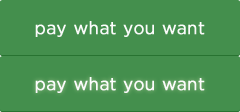
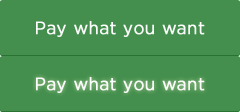
Custom buttons.

diff --git a/webkit/disconnect.safariextension/chrome/stylesheets/d2.css b/webkit/disconnect.safariextension/chrome/stylesheets/d2.css
@@ -161,17 +161,17 @@ h2 {
 
 #more-action:hover { color: #009548 }
 
-#try {
-  position: absolute;
-  top: 320px;
-  left: -200px
-}
-
 #embed {
   display: inline-block;
   width: 33%;
   -webkit-transform: scale(1.2);
   -moz-transform: scale(1.2)
+}
+
+#try {
+  position: relative;
+  margin-top: -120px;
+  margin-left: 40%
 }
 
 #features {
@@ -226,7 +226,7 @@ p { overflow: auto }
   margin-top: 45px;
   margin-right: 5%;
   margin-left: 10%;
-  width: 50%;
+  width: 55%;
   min-width: 600px
 }
 
@@ -267,7 +267,7 @@ input[type=radio] {
   vertical-align: middle
 }
 
-input:checked {
+input[type=radio]:checked {
   background: -webkit-linear-gradient(#60d490 38%, #68b789)
 }
 
@@ -321,7 +321,10 @@ hr {
   outline: none
 }
 
-#two input { background: -webkit-linear-gradient(#60d490 38%, #68b789) }
+#two input {
+  box-shadow: inset 0 1px 2px rgba(255, 255, 255, .25);
+  background: -webkit-linear-gradient(#8dc9a6 38%, #87dfab)
+}
 
 #two img {
   margin-left: -3px;
@@ -353,6 +356,10 @@ input[type=checkbox] {
   height: 12px
 }
 
+input[type=checkbox]:checked {
+  background: -webkit-linear-gradient(#60d490 38%, #68b789)
+}
+
 input[type=checkbox]:before {
   display: inline-block;
   width: 100%;
@@ -365,9 +372,19 @@ input[type=checkbox]:checked:before {
   background-size: contain
 }
 
-#stripe {
-  margin-top: 2px;
-  margin-right: 10px;
-  vertical-align: top;
-  text-decoration: none
+#four div {
+  display: inline-block;
+  margin-top: 15px;
+  margin-right: 15px;
+  width: 210px;
+  height: 45px;
+  cursor: pointer
 }
+
+#four div:hover { background-position: 0 -45px }
+
+#cc { background: url(../images/d2/cc.png) }
+
+#bitcoin { background: url(../images/d2/bitcoin.png) }
+
+#zero { background: url(../images/d2/zero.png) }

diff --git a/webkit/disconnect.safariextension/chrome/markup/d2.html b/webkit/disconnect.safariextension/chrome/markup/d2.html
@@ -120,7 +120,6 @@
         </div>
       </div>
       <div id="embed">
-        <img id="try" src="../images/d2/try.png" alt="Try me! I'm clickable.">
         <!-- Disconnect. ... -->
         <div id="list">
           <table id="navbar">
@@ -381,6 +380,7 @@
         </div>
         <!-- ... Disconnect. -->
       </div>
+      <img id="try" src="../images/d2/try.png" alt="Try me! I'm clickable.">
     </div>
     <div id="features">
       <div class="feature">
@@ -501,14 +501,9 @@
       <div class="count">4</div>
       <div class="step" id="four">
         <p>Pick a payment method:</p>
-        <a class="stripe-connect" id="stripe">
-          <span>Pay by credit card</span>
-        </a>
-        <a
-          class="coinbase-button"
-          href="https://coinbase.com/checkouts/4d4b84bbad4508b64b61d372ea394dad"
-          data-code="4d4b84bbad4508b64b61d372ea394dad"
-        >Pay with Bitcoin</a>
+        <div id="cc"></div>
+        <div id="bitcoin"></div>
+        <div id="zero"></div>
       </div>
     </form>
   </body>

diff --git a/webkit/disconnect.safariextension/chrome/scripts/d2.js b/webkit/disconnect.safariextension/chrome/scripts/d2.js
@@ -77,7 +77,7 @@ $(function() {
     }
   });
 
-  $('#stripe').click(function() {
+  $('#cc').click(function() {
     var total = $('#one :checked').val();
 
     var token = function(result) {
